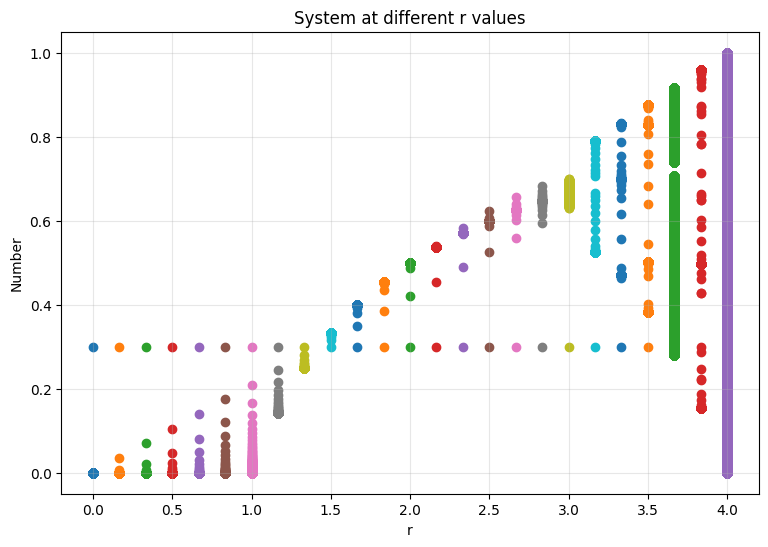
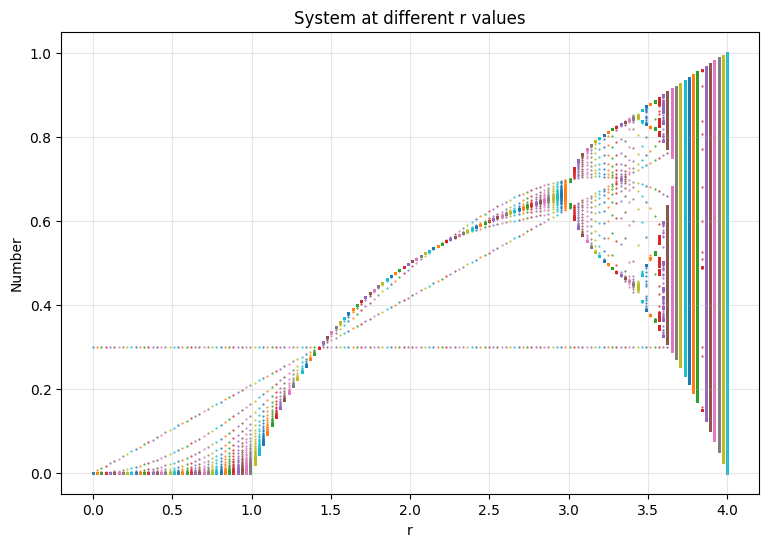
Update of the previous task

diff --git a/Third_hometask/Chaotic_simulation_1.py b/Third_hometask/Chaotic_simulation_1.py
@@ -9,18 +9,18 @@ def round_computations(n, r):
 plt.figure(figsize=(9, 6))
 n_0 = 0.3
 t = np.arange(10000)
-rs = np.linspace(0, 4, 25)
+rs = np.linspace(0, 4, 150)
 for r in rs:
     ns = np.zeros(t.size)
     ns[0] = n_0
     for time in t[1:]:
         ns[time] = round_computations(ns[time-1], r)
-    plt.scatter(np.full(t.size, r), ns)
+    plt.scatter(np.full(t.size, r), ns, s=0.25)
 
 plt.xlabel('r')
 plt.ylabel('Number')
 plt.title('System at different r values')
 plt.grid(alpha=0.3)
 
-#plt.savefig('first_plot.png', bbox_inches='tight')
-plt.show()
+plt.savefig('first_plot.png', bbox_inches='tight')
+#plt.show()

diff --git a/Third_hometask/Chaotic_simulation_2.py b/Third_hometask/Chaotic_simulation_2.py
@@ -8,7 +8,7 @@ def round_computations(n, r):
 
 n_0 = 0.3
 t = np.arange(10000)
-rs = np.linspace(0, 4, 35)
+rs = np.linspace(0, 4, 120)
 plt.figure(figsize=(11, 6))
 plt.xlabel('r')
 plt.ylabel('Number')
@@ -20,6 +20,6 @@ for r in rs:
     for time in t[1:]:
         ns[time] = round_computations(ns[time-1], r)
     ns_part = ns[1000:]
-    plt.scatter(np.full(ns_part.size, r), ns_part)
-#plt.savefig('second_plot.png', bbox_inches = 'tight')
-plt.show()
+    plt.scatter(np.full(ns_part.size, r), ns_part, s=0.00001)
+plt.savefig('second_plot.png', bbox_inches = 'tight')
+#plt.show()

diff --git a/Third_hometask/Chaotic_simulation_3.py b/Third_hometask/Chaotic_simulation_3.py
@@ -22,6 +22,6 @@ for r in rs:
     for time in t[1:]:
         ns[time] = round_computations(ns[time-1], r)
     ns_part = ns[1000:]
-    plt.scatter(np.full(ns_part.size, r), ns_part)
+    plt.scatter(np.full(ns_part.size, r), ns_part, s=0.00001)
 plt.savefig('fourth_plot.png', bbox_inches='tight')
 plt.show()
